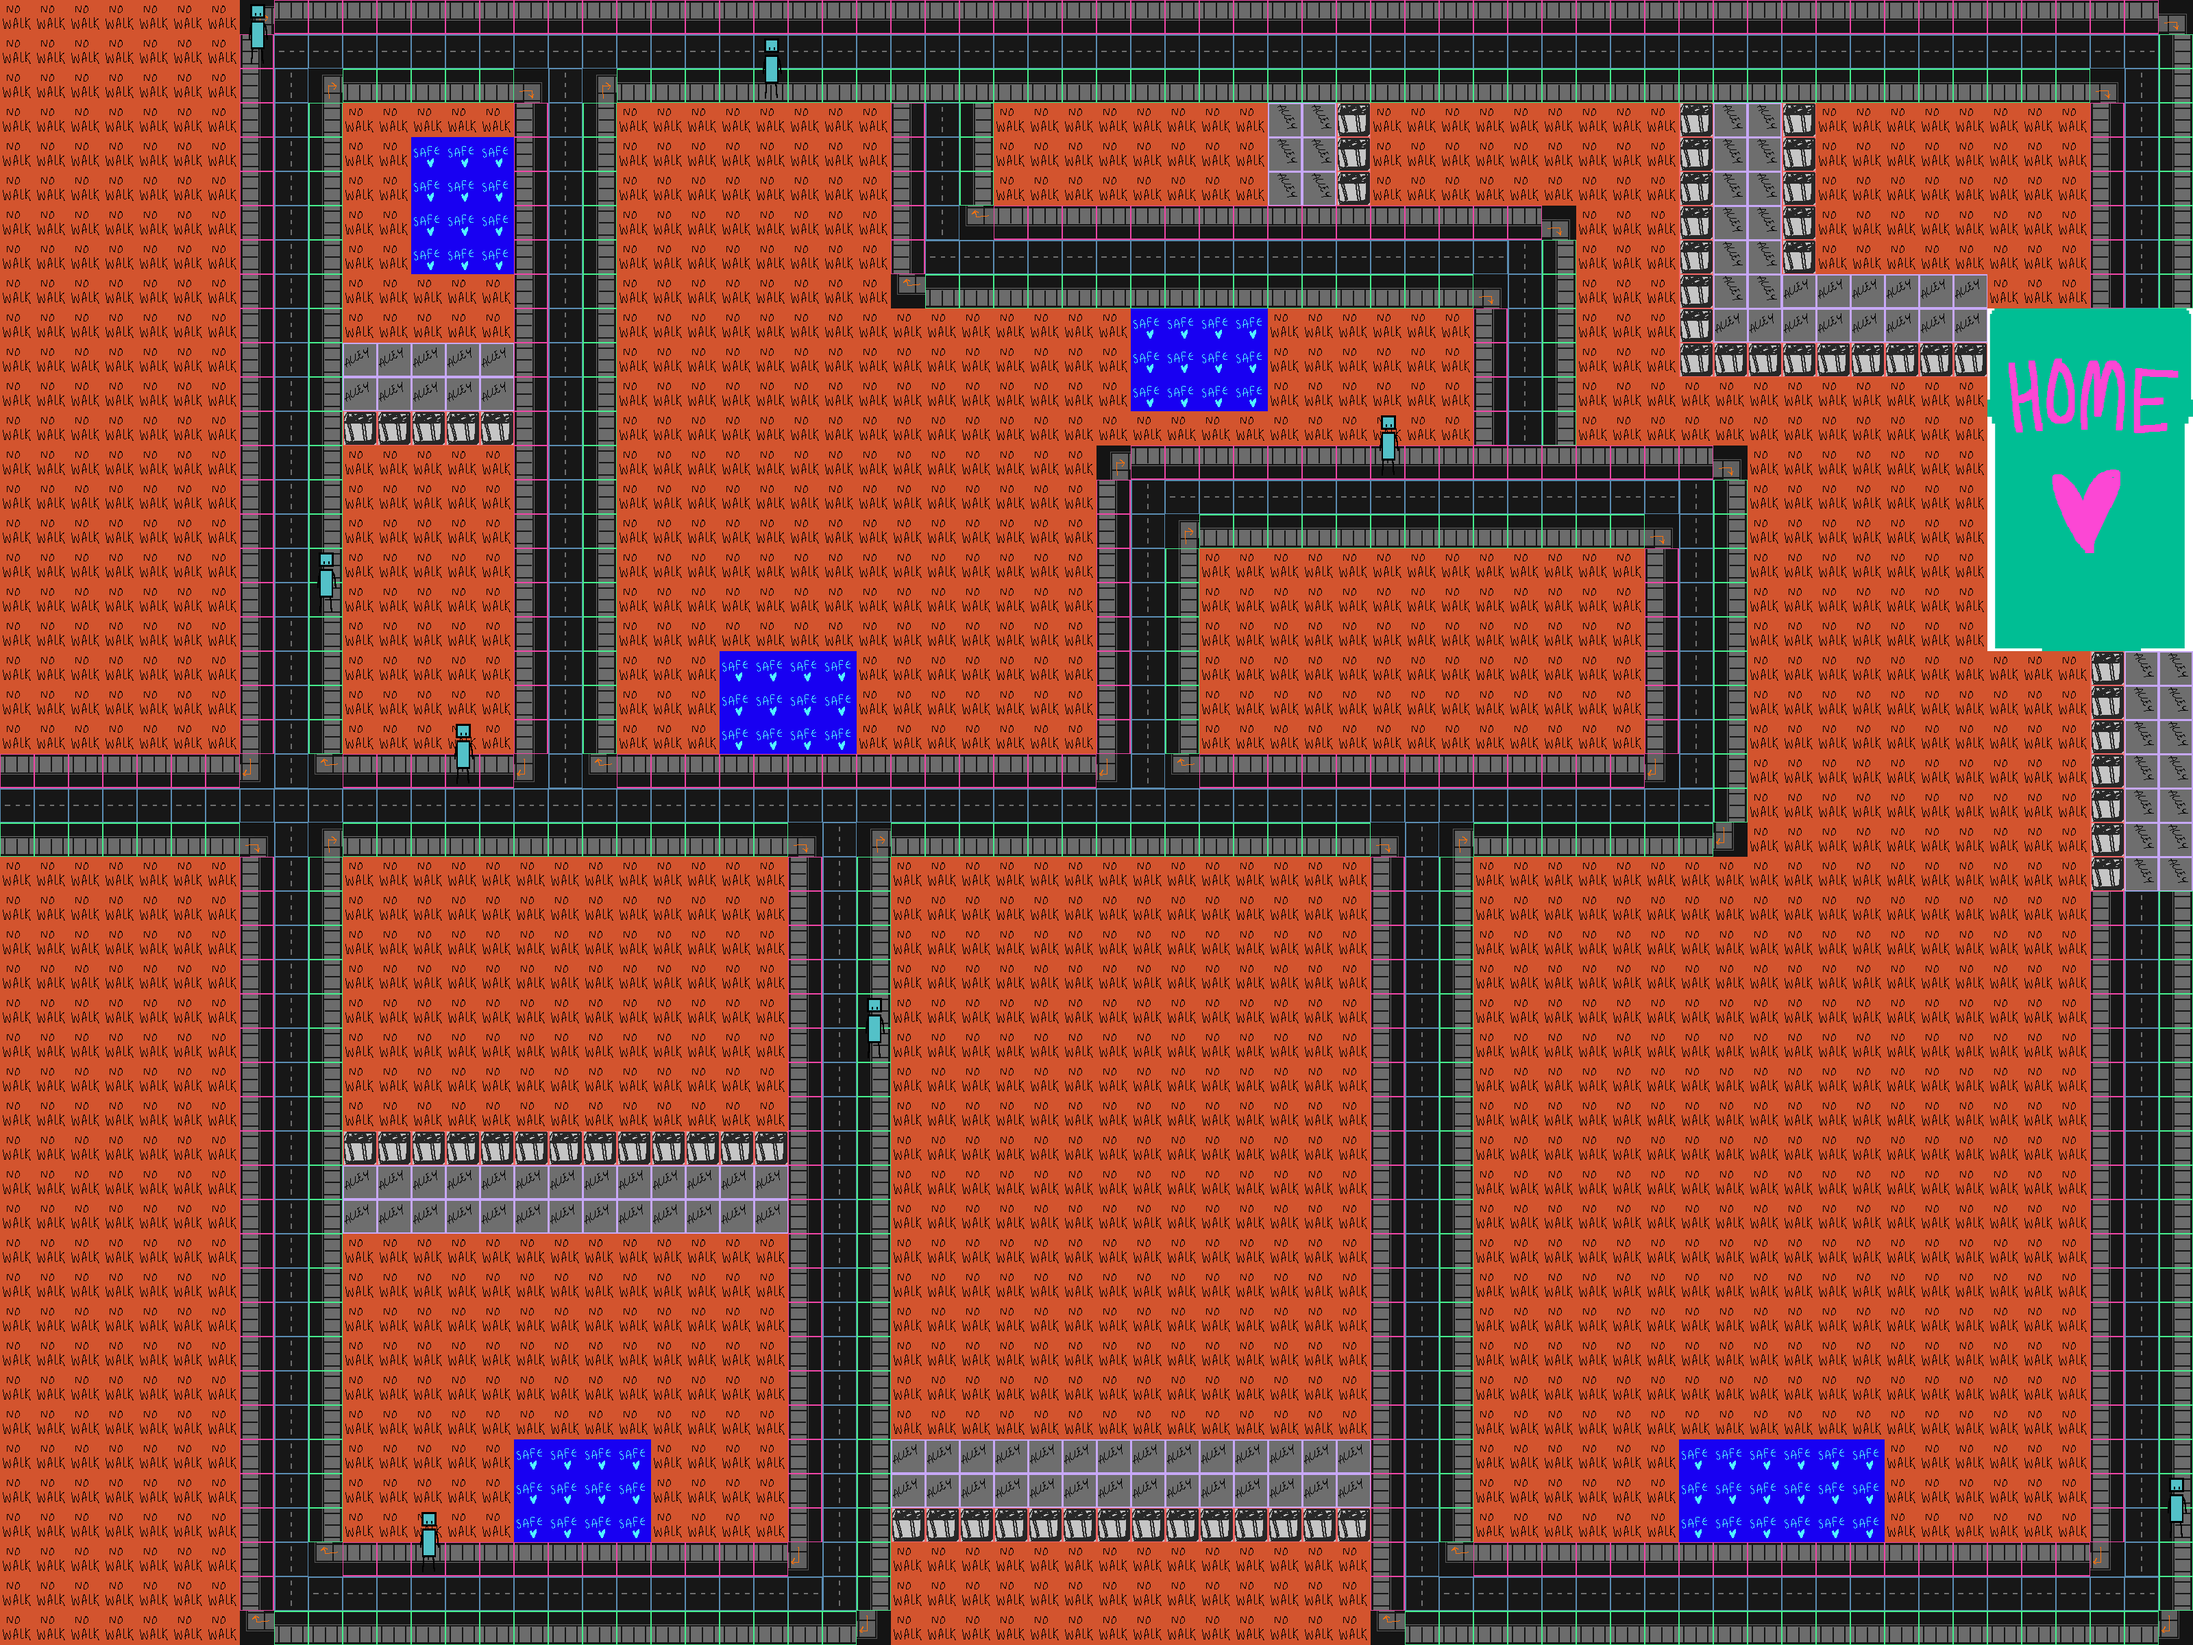
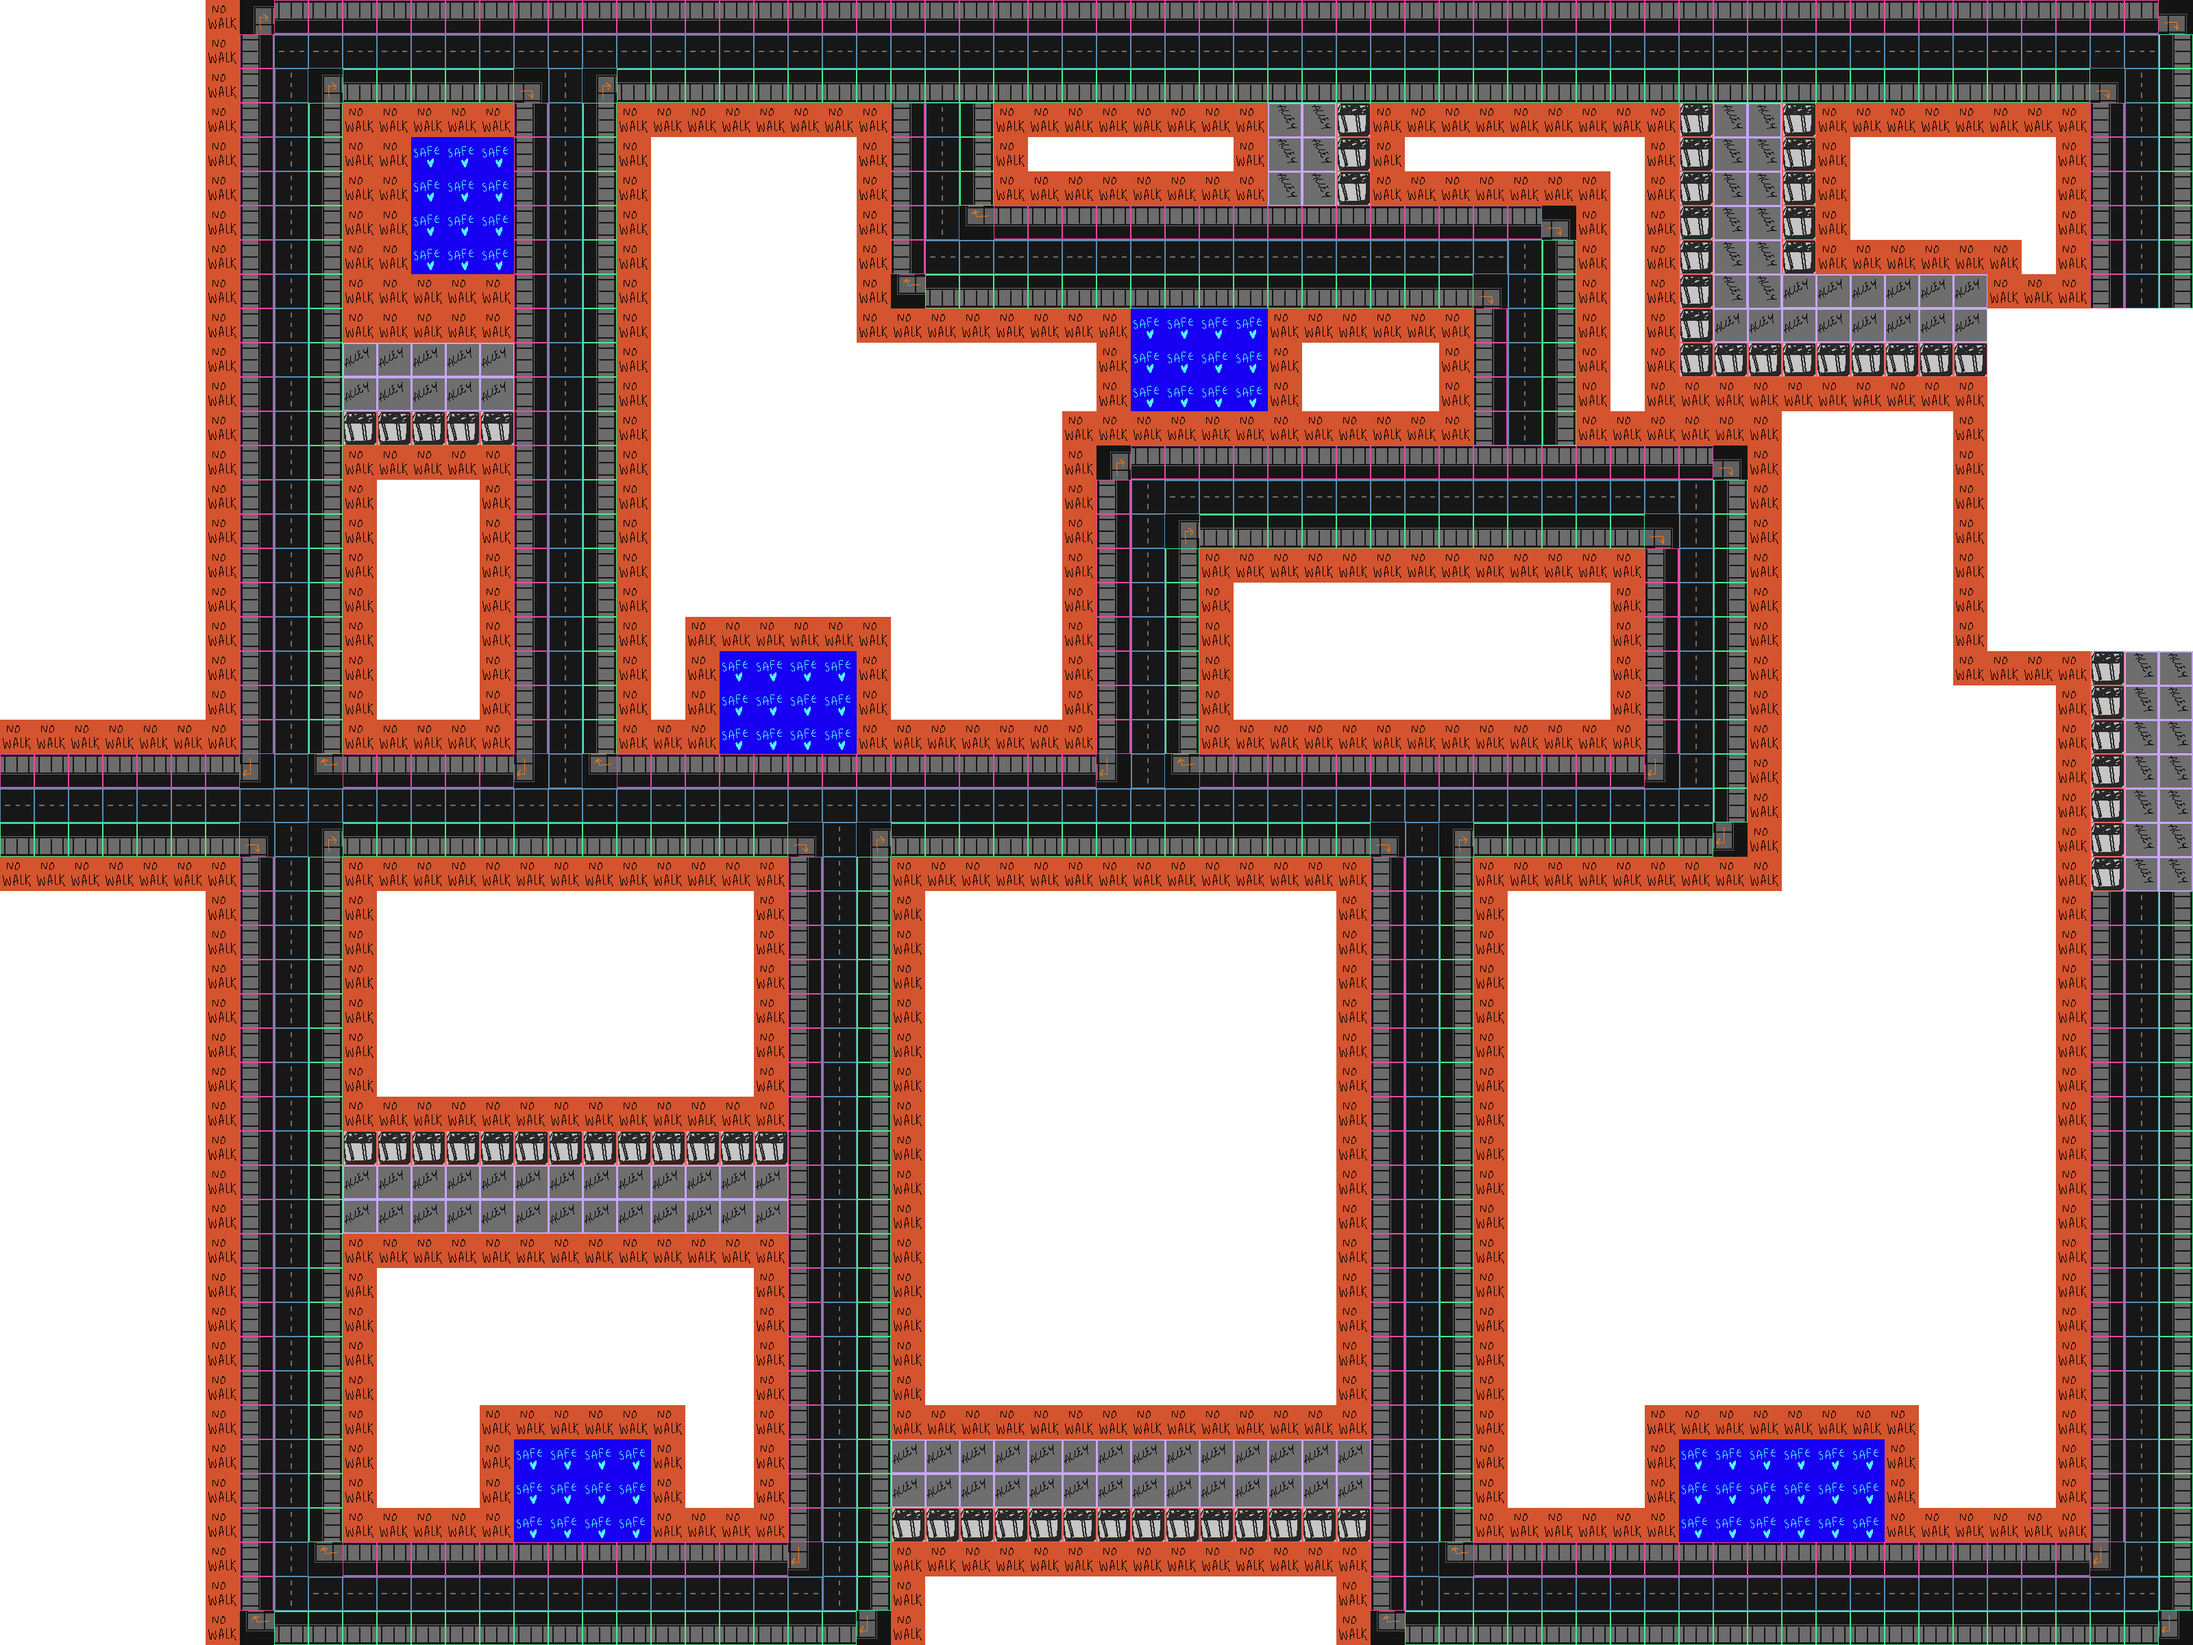
Adding new player sprite and anims

diff --git a/js/main.js b/js/main.js
@@ -9,6 +9,8 @@ var TILEMAP_DOWN = 5;
 
 var PLAYER_WIDTH = 50;
 var PLAYER_HEIGHT = 100;
+var ENEMY_WIDTH = 50;
+var ENEMY_HEIGHT = 100;
 var SHADOW_WIDTH = 50;
 var SHADOW_HEIGHT = 13;
 
@@ -22,8 +24,9 @@ var FRAME_DELAY = 20;
 var DOM_OR_CANVAS = "DOM";
 
 var BG_MAP_SRC = "art/field-view-1.png";
-var PLAYER_SRC = "art/placeholderspritesheet_avatar.png";
+var PLAYER_SRC = "art/avespritesheet.png";
 var SHADOW_SRC = "art/placeholder_shadow.png";
+var ENEMY_SRC = "art/placeholderspritesheet_npc.png";
 var TILEMAP_SRC = "art/placeholder_streettiles.png";
 var ENEMYRANGE_SRC = "art/enemy_radius.png";
 var MAP_SRC = "map/field-view-map1.json";
@@ -35,13 +38,15 @@ var PLAYER_LOSE_LIMIT = 49;
 var ENEMY_EFFECT_RADIUS = 100;
 var ENEMY_DISTANCE_MULTIPLIER = .2;
 
-var PLAYER_LOSE_HEALTH_RATE = 5;
+var PLAYER_LOSE_HEALTH_RATE = 10;
+var PLAYER_LOSE_HEALTH_RATE_ALLEY = 5;
 var PLAYER_LOSE_HEALTH_DELAY = 500;
 var PLAYER_GAIN_HEALTH_RATE = 10;
 var PLAYER_GAIN_HEALTH_DELAY = 500;
 
 // states
 var inEnemyRange = false;
+var inAlley = false;
 var inSafeArea = false;
 
 // globals
@@ -66,6 +71,10 @@ Crafty.sprite(1, BG_MAP_SRC, {
 
 Crafty.sprite(PLAYER_WIDTH, PLAYER_HEIGHT, PLAYER_SRC, {
 	player: [0, 0]
+});
+
+Crafty.sprite(ENEMY_WIDTH, ENEMY_HEIGHT, ENEMY_SRC, {
+	enemy: [0, 0]
 });
 
 Crafty.sprite(SHADOW_WIDTH, SHADOW_HEIGHT, SHADOW_SRC, {
@@ -123,9 +132,9 @@ the loading screen that will display while our assets load
 */
 Crafty.scene("loading", function () {
 	console.log("in loading");
-    //load takes an array of assets and a callback when complete
-    Crafty.load([BG_MAP_SRC, PLAYER_SRC, TILEMAP_SRC, SHADOW_SRC, ENEMYRANGE_SRC], function () {
-        Crafty.scene("main"); //when everything is loaded, run the main scene
+    //load takes an array of assets and a callback when complete, runs the main scene
+    Crafty.load([BG_MAP_SRC, PLAYER_SRC, ENEMY_SRC, TILEMAP_SRC, SHADOW_SRC, ENEMYRANGE_SRC], function () {
+        Crafty.scene("main"); 
     });
 
     //black background with some loading text
@@ -151,7 +160,6 @@ Crafty.scene("main", function () {
 	Crafty.viewport.follow(player, 1, 1);
 
 	frameDelay = Crafty.e('Delay');
-	//frameDelay.delay(eachFrame, FRAME_DELAY);
 	
 	// load the JSON map file and call generateMap when it does
 	$.getJSON(MAP_SRC, generateMap);
@@ -172,13 +180,14 @@ function generateWorld() {
 		}
 	});
 	
-	//create our player entity
-
+	//create player entity
 	Crafty.c("playerAnim", {
 		init: function() {
 		  this.requires('SpriteAnimation, Collision, Grid')
 			  .animate('stand', 0, 0, 0)
-			  .animate('walk', 0, 0, 2)
+			  .animate('walk', 1, 0, 4)
+			  .animate('huddled', 5, 0, 5)
+			  .animate('huddled_walk', 6, 0, 9);
 		}
 	});
 	
@@ -191,8 +200,14 @@ function generateWorld() {
 	player.bind("NewDirection",
 				function (direction) {
 					if (direction.x != 0 || direction.y != 0) {
-						if (!this.isPlaying("walk"))
-							this.stop().animate("walk", 20, -1);
+						if(inEnemyRange || inAlley){
+							if (!this.isPlaying("huddled_walk"))
+								this.stop().animate("huddled_walk", 20, -1);
+						}
+						else{
+							if (!this.isPlaying("walk"))
+								this.stop().animate("walk", 20, -1);
+						}
 					}
 					/*if (direction.x > 0) {
 						if (!this.isPlaying("walk_right"))
@@ -207,7 +222,10 @@ function generateWorld() {
 							this.stop().animate("walk_down", 10, -1);
 					}*/
 					else if(!direction.x && !direction.y) {
-						this.stop().animate("stand", 20, -1);
+						if(inEnemyRange || inAlley)
+							this.stop().animate("huddled", 20, -1);
+						else
+							this.stop().animate("stand", 20, -1);
 					}
 				});
 	
@@ -226,7 +244,7 @@ function generateWorld() {
 				if(player.hit('safe')){
 					if(!inSafeArea){
 						inSafeArea = true;
-						healthUpBySec();
+						healthUpBySec(PLAYER_GAIN_HEALTH_RATE);
 					}
 				}
 				else{
@@ -238,10 +256,22 @@ function generateWorld() {
 					if(!inEnemyRange){
 						inEnemyRange = true;
 						healthDownBySec();
+						if (!this.isPlaying("huddled_walk"))
+							this.stop().animate("huddled_walk", 20, -1);
+					}
+				}
+				else if(player.hit('alley')){
+					if(!inAlley){
+						inAlley = true;
+						healthDownBySec();
+						if (!this.isPlaying("huddled_walk"))
+							this.stop().animate("huddled_walk", 20, -1);
 					}
 				}
 				else{
 					inEnemyRange = false;
+					if (!this.isPlaying("walk"))
+						this.stop().animate("walk", 20, -1);
 				}
 				
 				// block handles getting home safely
@@ -268,22 +298,21 @@ function generateWorld() {
 Function to load the map file
 */
 function generateMap(json){
-	
 	// test whether the map has been loaded
 	var mapLayer1 = json.layers[0];
 	var mapWidth = mapLayer1.width;
 	var mapHeight = mapLayer1.height;
-	var mapData = mapLayer1.data;
 	
-	var mapLayer2 = json.layers[1];
-	var houseData = mapLayer2.data;
-	// console.log(mapData);
+	var groundData = json.layers[0].data;
+	var noWalkData = json.layers[1].data;
+	var enemyData = json.layers[2].data;
 	
 	MAP_WIDTH = mapWidth * TILE_WIDTH;
 	MAP_HEIGHT = mapHeight * TILE_HEIGHT;
 	
 	var ctr = 0;
 	
+	/*
 	for(var row = 0; row < mapHeight; row += 1){
 		for(var col = 0; col < mapWidth; col += 1){
 			var tileNum = mapData[ctr];
@@ -299,29 +328,45 @@ function generateMap(json){
 			// create the new block
 			Crafty.e("2D, " + TILE_LIST[rowCol[0]][rowCol[1]] + ", " + TILELABEL_LIST[rowCol[0]][rowCol[1]])
 					.attr({x: minX, y: minY, z: 1});
-					
-			// create a "radius of enmity" around the block's center
-			if(blockType == "clutter"){
+
+			ctr += 1;
+		}
+	}*/
+	
+	// initialize the safe, can't-walk-here, and enemy blocks
+	for(var row = 0; row < mapHeight; row += 1){
+		for(var col = 0; col < mapWidth; col += 1){
+			var minX = col * TILE_WIDTH;
+			var minY = row * TILE_HEIGHT;
+			
+			// place a safe zone or an alley
+			var tileNum = groundData[ctr]
+			if(tileNum == 33){
+				Crafty.e("2D, safe").
+					attr({x: minX, y: minY, z: 1});
+			}
+			else if(tileNum == 17 || tileNum == 18){
+				Crafty.e("2D, alley").
+					attr({x: minX, y: minY, z: 1});
+			}
+			
+			
+			// place a no-walk barrier
+			tileNum = noWalkData[ctr];
+			if(tileNum != 0){
+				Crafty.e("2D, no_walk")
+					.attr({x: minX, y: minY, z: 1});
+			}
+			
+			// place an enemy
+			tileNum = enemyData[ctr];
+			if(tileNum == 102){
+				
+				// create a "radius of enmity" around the enemy's center
 				var offsetX = minX - (ENEMY_EFFECT_RADIUS - TILE_WIDTH / 2);
 				var offsetY = minY - (ENEMY_EFFECT_RADIUS - TILE_HEIGHT / 2);
 				Crafty.e("2D, DOM, enemy_range")
-						.attr({x: offsetX, y: offsetY, z: 2});
-			}
-			ctr += 1;
-		}
-	}
-	
-	// now initialize the can't-walk-here blocks
-	ctr = 0;
-	
-	for(var row = 0; row < mapHeight; row += 1){
-		for(var col = 0; col < mapWidth; col += 1){
-			var tileNum = houseData[ctr];
-			if(tileNum != 0){
-				var minX = col * TILE_WIDTH;
-				var minY = row * TILE_HEIGHT;
-				Crafty.e("2D, no_walk")
-					.attr({x: minX, y: minY, z: 1});
+						.attr({x: offsetX, y: offsetY, z: 2});	
 			}
 			
 			ctr += 1;
@@ -347,7 +392,11 @@ function healthDownBySec(){
 	if(inEnemyRange){
 		PLAYER_CURRENT_HEALTH = Math.max(PLAYER_LOSE_LIMIT, PLAYER_CURRENT_HEALTH - PLAYER_LOSE_HEALTH_RATE);
 		hbCanvas.setVisibility(PLAYER_CURRENT_HEALTH);
-	
+		frameDelay.delay(healthDownBySec, PLAYER_LOSE_HEALTH_DELAY);
+	}
+	else if(inAlley){
+		PLAYER_CURRENT_HEALTH = Math.max(PLAYER_LOSE_LIMIT, PLAYER_CURRENT_HEALTH - PLAYER_LOSE_HEALTH_RATE_ALLEY);
+		hbCanvas.setVisibility(PLAYER_CURRENT_HEALTH);
 		frameDelay.delay(healthDownBySec, PLAYER_LOSE_HEALTH_DELAY);
 	}
 	else{
